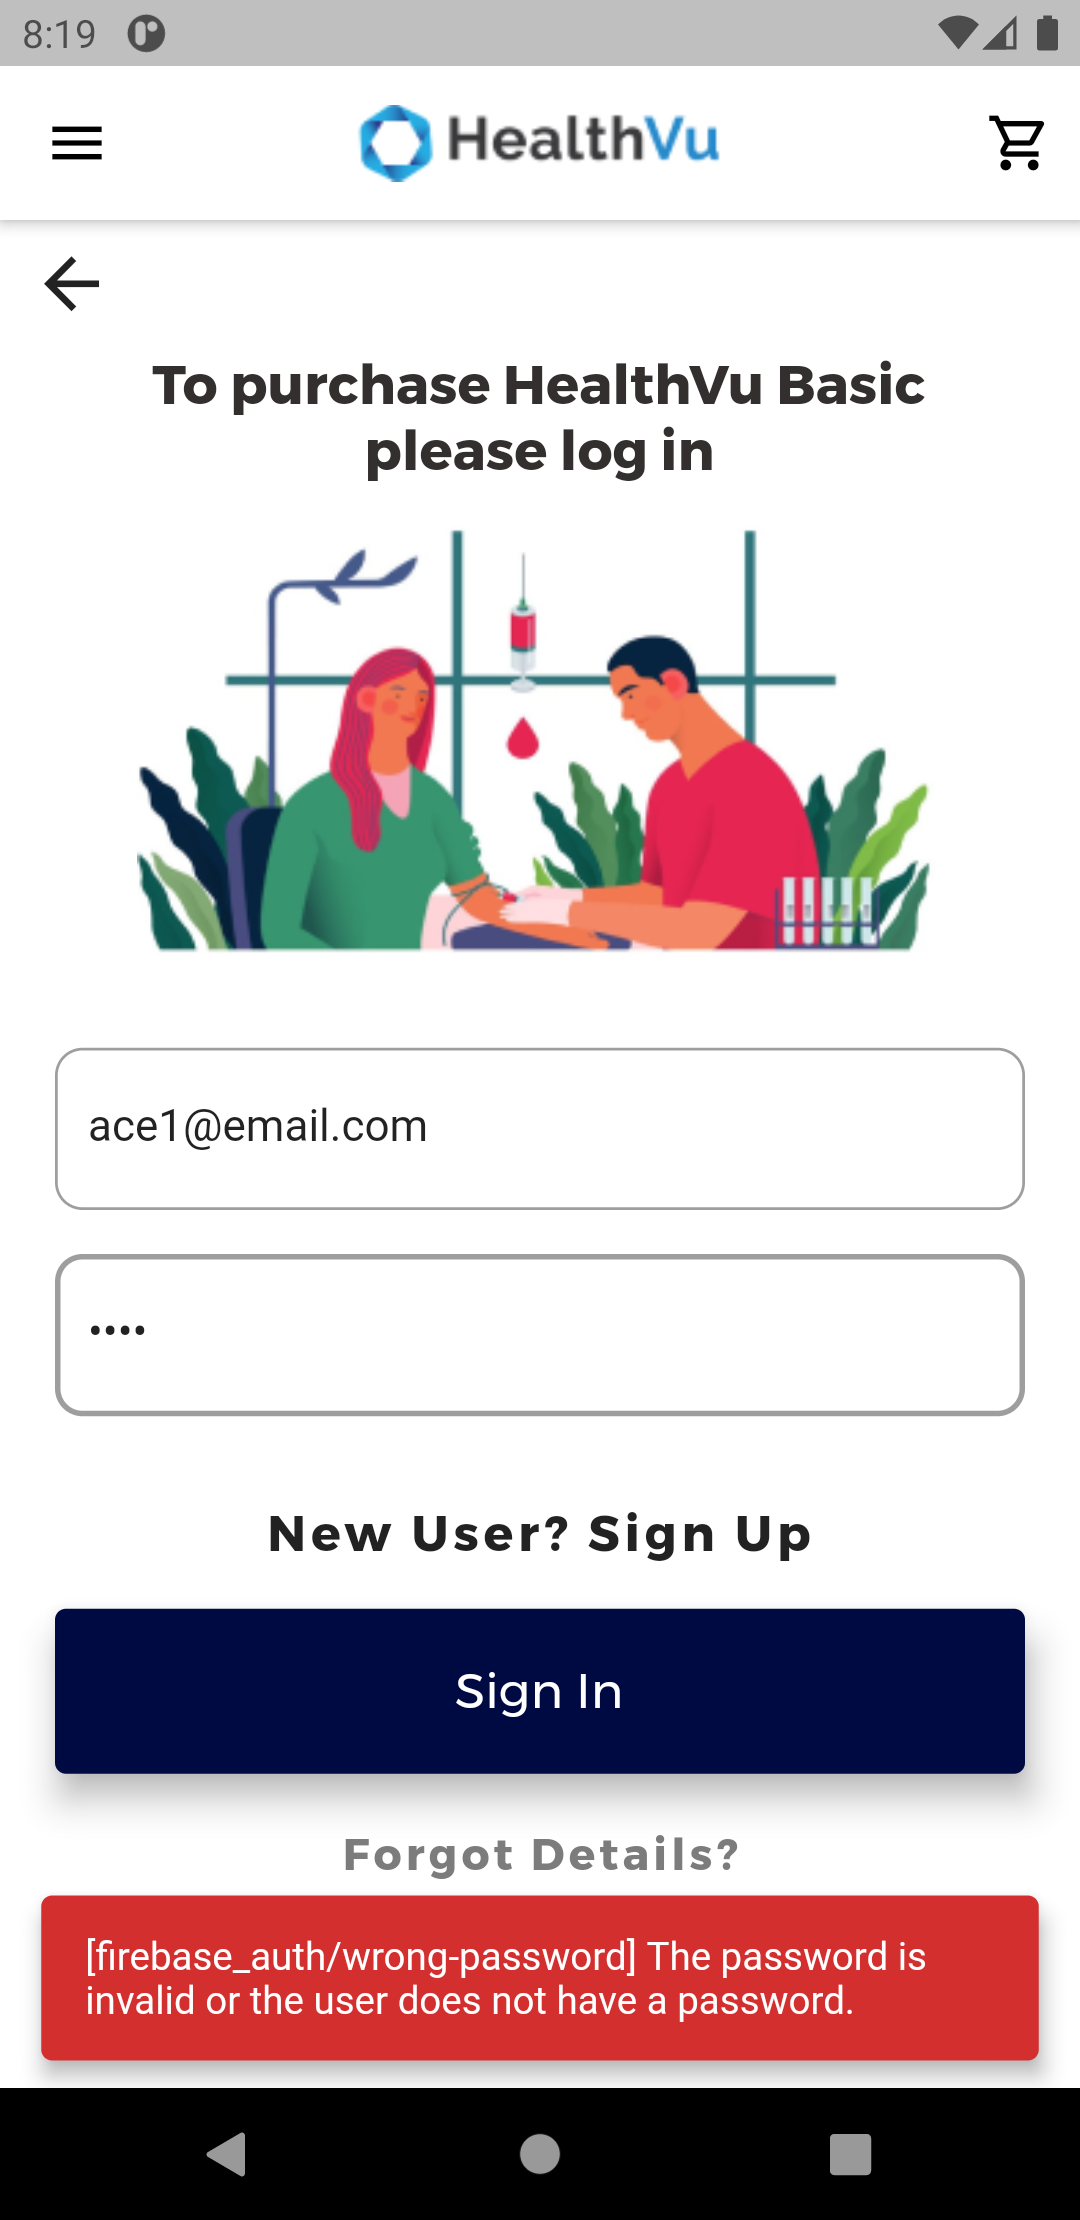
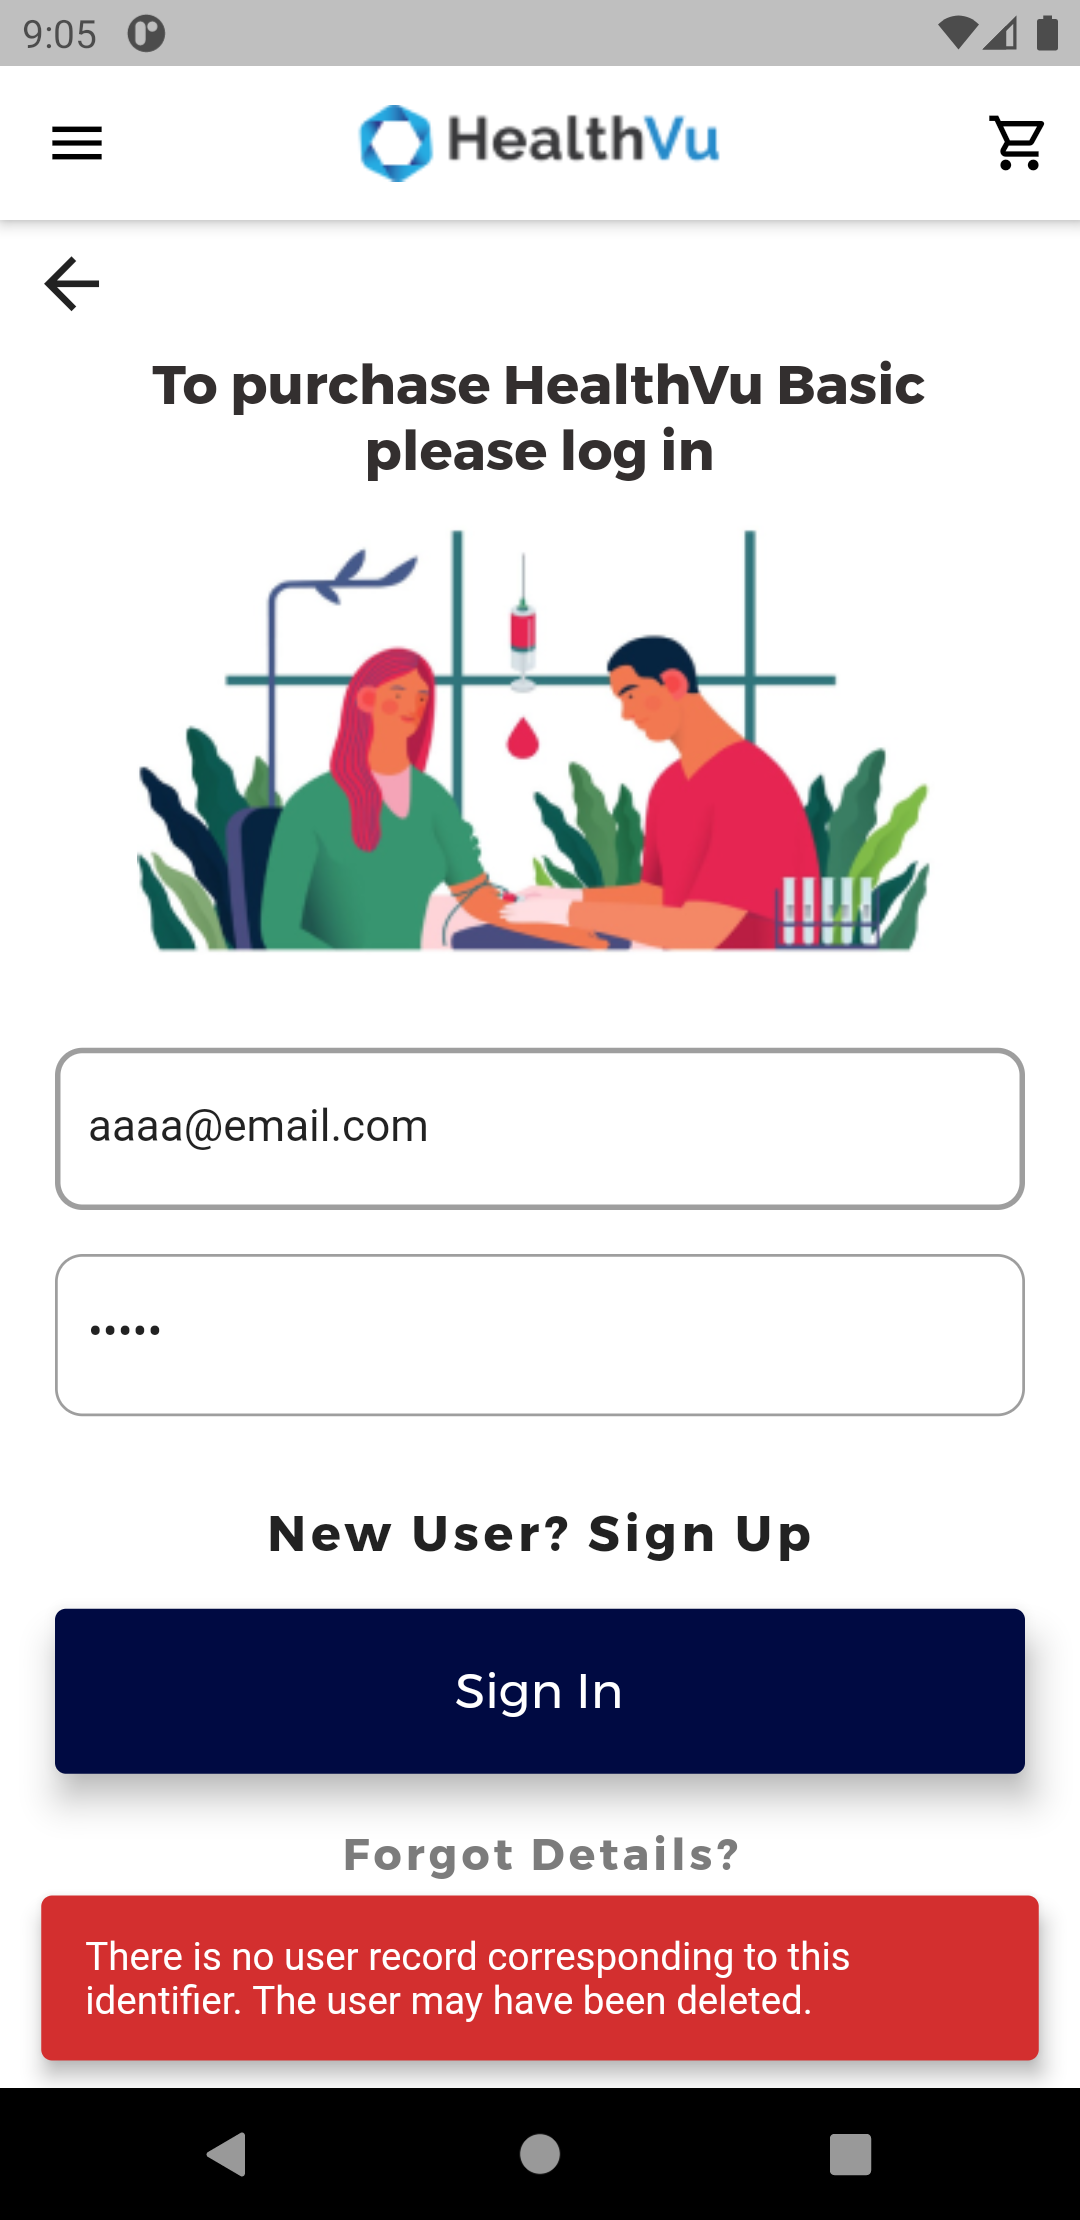
Formatted error message format

diff --git a/lib/screens/login.dart b/lib/screens/login.dart
@@ -2,7 +2,6 @@ import 'package:firebase_auth/firebase_auth.dart';
 import 'package:flutter/material.dart';
 import 'package:flutter/services.dart';
 import 'package:google_fonts/google_fonts.dart';
-import 'package:email_validator/email_validator.dart';
 
 class LoginPage extends StatefulWidget {
   const LoginPage({Key? key}) : super(key: key);
@@ -24,6 +23,15 @@ class _LoginPageState extends State<LoginPage> {
           .signInWithEmailAndPassword(email: _name, password: _password);
 
       Navigator.of(context).pushNamed('/dashboard');
+    } on FirebaseAuthException catch (error) {
+      String msg = error.message.toString();
+      print(msg);
+      ScaffoldMessenger.of(context).showSnackBar(SnackBar(
+        content: Text(msg),
+        backgroundColor: Theme.of(context).errorColor,
+        behavior: SnackBarBehavior.floating,
+        duration: Duration(seconds: 3),
+      ));
     } on PlatformException catch (error) {
       String message = 'Please check your credentials and try again';
 
@@ -136,10 +144,6 @@ class _LoginPageState extends State<LoginPage> {
                       validator: (value) {
                         if (value == null || value.isEmpty) {
                           return 'Username is required';
-                        }
-
-                        if (!EmailValidator.validate(value)) {
-                          return 'Enter a valid email';
                         }
 
                         return null;
